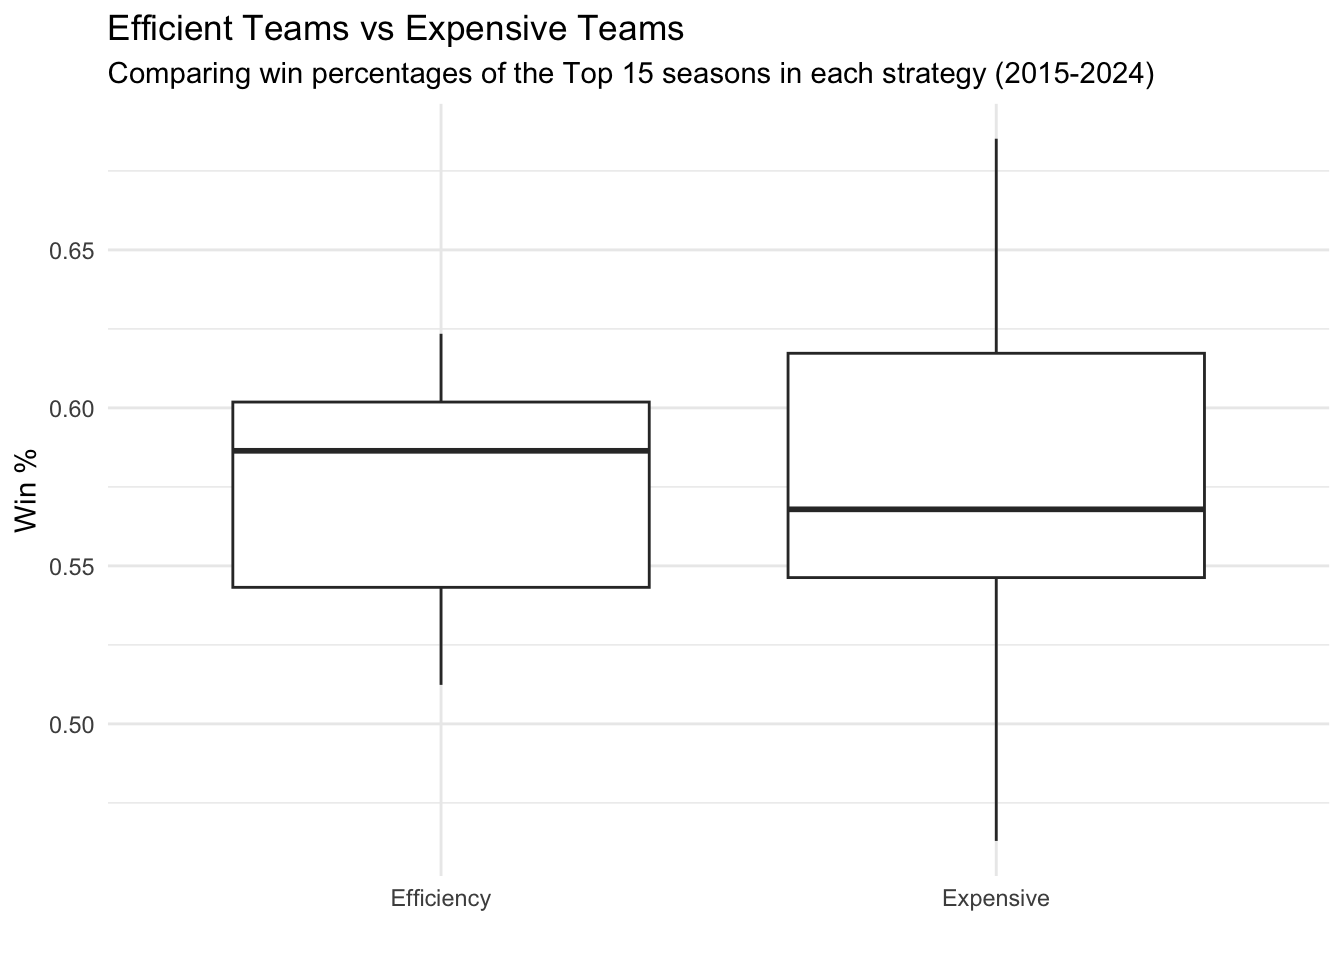
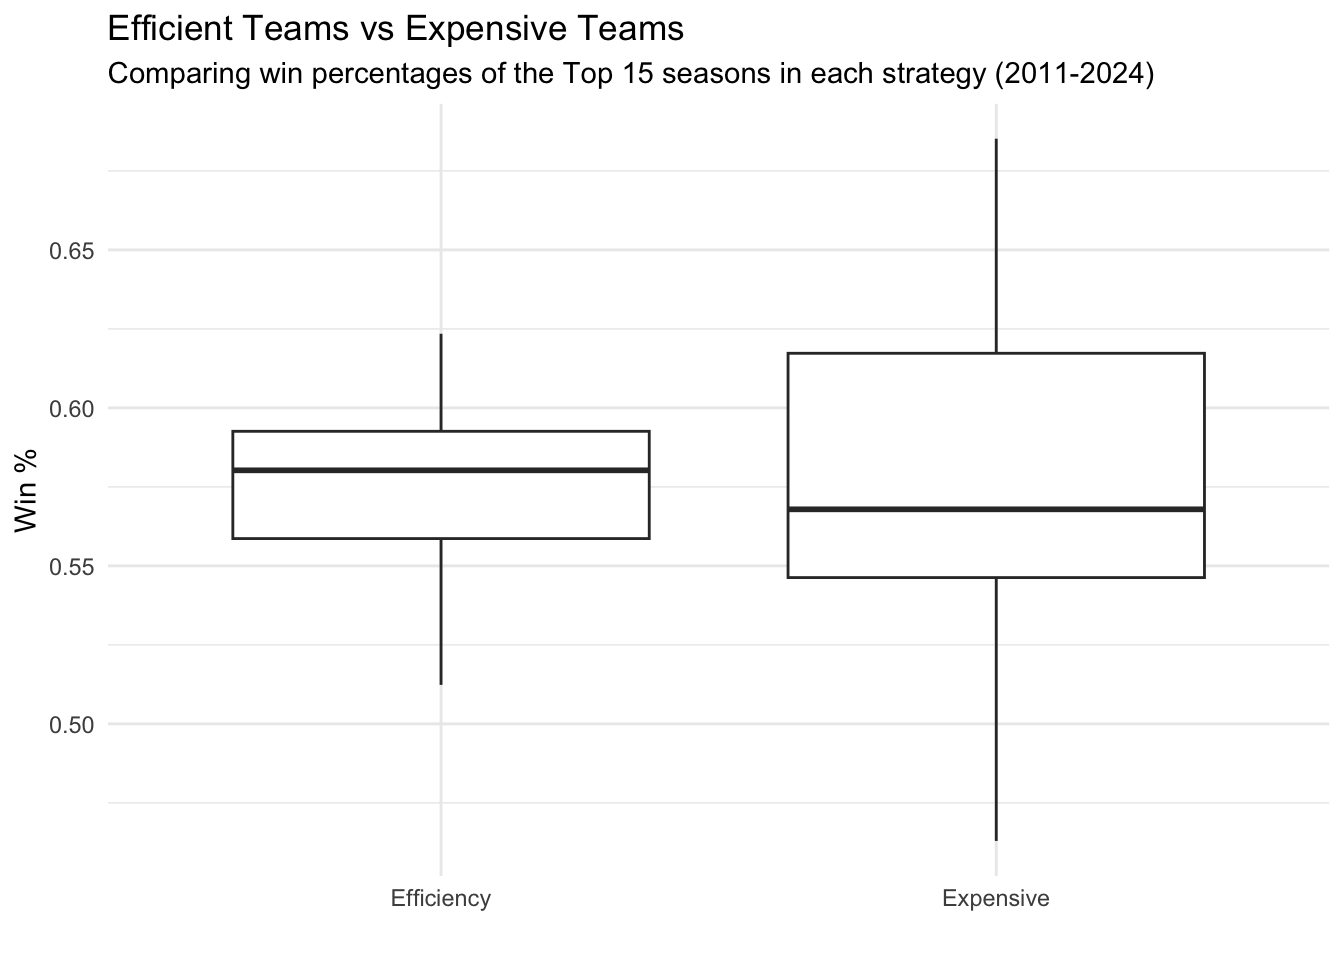
analysis

diff --git a/docs/posts/Post2/index.html b/docs/posts/Post2/index.html
@@ -9,7 +9,7 @@
 <meta name="author" content="Jacobi Lafferty">
 <meta name="dcterms.date" content="2026-02-16">
 
-<title>index – ds334_blog</title>
+<title>Do Smaller Market Teams Have a Chance in the MLB? – ds334_blog</title>
 <style>
 code{white-space: pre-wrap;}
 span.smallcaps{font-variant: small-caps;}
@@ -154,7 +154,7 @@ pre > code.sourceCode > span > a:first-child::before { text-decoration: underlin
 <header id="title-block-header" class="quarto-title-block default page-columns page-full">
   <div class="quarto-title-banner page-columns page-full">
     <div class="quarto-title column-body">
-      <h1 class="title">index</h1>
+      <h1 class="title">Do Smaller Market Teams Have a Chance in the MLB?</h1>
                                 <div class="quarto-categories">
                 <div class="quarto-category">analysis</div>
                 <div class="quarto-category">MLB</div>
@@ -194,6 +194,11 @@ pre > code.sourceCode > span > a:first-child::before { text-decoration: underlin
 
 
 
+<section id="introduction" class="level1">
+<h1>Introduction</h1>
+<p>For this post, I’m exploring MLB payrolls. Recently, there has been some controversy throughout the league due to big market teams, especially the dodgers, spending seemingly infinite amounts of money to sign all the big names in free agency. Currently in the MLB, there is no hard salary cap. There are taxes for going over a certain amounts, but for big market teams those taxes seem to not matter. I’m hoping to get to the bottom of how big of a problem this actually is. Do team’s who spend the most money really perform significantly better?</p>
+<p>To investigate this question, I’m working with a data set from Kaggle called <a href="https://www.kaggle.com/datasets/christophertreasure/mlb-team-payrolls-2011-2024">MLB Team Payrolls 2011-2024</a>. It contains both salary and performance data for every MLB team from 2011-2014. To approach this question, I wanted to not only see how salary effects winning, but also explore efficiency. What I mean by efficiency is spending the least amount of money to get the most possible wins. One of my favorite movies “MoneyBall” was a big inspiration for this idea. I want to see whether teams who have to work within a budget and prioritize efficiency have a chance, or if they are doomed from the start to the teams with the highest budgets.</p>
+<p>First, I need to create a couple variables to help us explore this question. We need Win Percentage and Efficiency. Efficiency in our case will be Payroll / Wins. In other words, how much a team pays for each win.</p>
 <div class="cell">
 <div class="code-copy-outer-scaffold"><div class="sourceCode cell-code" id="cb1"><pre class="sourceCode r code-with-copy"><code class="sourceCode r"><span id="cb1-1"><a href="#cb1-1" aria-hidden="true" tabindex="-1"></a><span class="fu">library</span>(tidyverse)</span></code></pre></div><button title="Copy to Clipboard" class="code-copy-button"><i class="bi"></i></button></div>
 <div class="cell-output cell-output-stderr">
@@ -242,7 +247,7 @@ dbl (4): Year, Average Age, Wins, Losses
 ℹ Use `spec()` to retrieve the full column specification for this data.
 ℹ Specify the column types or set `show_col_types = FALSE` to quiet this message.</code></pre>
 </div>
-<div class="code-copy-outer-scaffold"><div class="sourceCode cell-code" id="cb13"><pre class="sourceCode r code-with-copy"><code class="sourceCode r"><span id="cb13-1"><a href="#cb13-1" aria-hidden="true" tabindex="-1"></a>salaries <span class="ot">&lt;-</span> salaries <span class="sc">|&gt;</span> <span class="fu">filter</span>(Year <span class="sc">&gt;</span> <span class="dv">2014</span>) <span class="sc">|&gt;</span></span>
+<div class="code-copy-outer-scaffold"><div class="sourceCode cell-code" id="cb13"><pre class="sourceCode r code-with-copy"><code class="sourceCode r"><span id="cb13-1"><a href="#cb13-1" aria-hidden="true" tabindex="-1"></a>salaries <span class="ot">&lt;-</span> salaries <span class="sc">|&gt;</span></span>
 <span id="cb13-2"><a href="#cb13-2" aria-hidden="true" tabindex="-1"></a>  <span class="fu">mutate</span>(<span class="at">win_pct =</span> Wins <span class="sc">/</span> <span class="dv">162</span>,</span>
 <span id="cb13-3"><a href="#cb13-3" aria-hidden="true" tabindex="-1"></a>         <span class="at">Payroll =</span> <span class="fu">gsub</span>(<span class="st">"</span><span class="sc">\\</span><span class="st">$"</span>, <span class="st">""</span>, <span class="st">`</span><span class="at">Total Payroll Allocations</span><span class="st">`</span>),</span>
 <span id="cb13-4"><a href="#cb13-4" aria-hidden="true" tabindex="-1"></a>         <span class="at">Payroll =</span> <span class="fu">gsub</span>(<span class="st">","</span>, <span class="st">""</span>, Payroll),</span>
@@ -251,13 +256,14 @@ dbl (4): Year, Average Age, Wins, Losses
 <span id="cb13-7"><a href="#cb13-7" aria-hidden="true" tabindex="-1"></a>         <span class="at">efficiency =</span> Payroll <span class="sc">/</span> Wins</span>
 <span id="cb13-8"><a href="#cb13-8" aria-hidden="true" tabindex="-1"></a>         )</span></code></pre></div><button title="Copy to Clipboard" class="code-copy-button"><i class="bi"></i></button></div>
 </div>
+</section>
 <section id="highest-payrolls" class="level1">
 <h1>Highest Payrolls</h1>
 <div class="cell">
 <div class="code-copy-outer-scaffold"><div class="sourceCode cell-code" id="cb14"><pre class="sourceCode r code-with-copy"><code class="sourceCode r"><span id="cb14-1"><a href="#cb14-1" aria-hidden="true" tabindex="-1"></a>expensive_teams <span class="ot">&lt;-</span> salaries <span class="sc">|&gt;</span> <span class="fu">group_by</span>(Team) <span class="sc">|&gt;</span></span>
 <span id="cb14-2"><a href="#cb14-2" aria-hidden="true" tabindex="-1"></a>  <span class="fu">summarise</span>(<span class="at">avg_payroll =</span> <span class="fu">mean</span>(Payroll),</span>
 <span id="cb14-3"><a href="#cb14-3" aria-hidden="true" tabindex="-1"></a>            <span class="at">avg_win_pct =</span> <span class="fu">mean</span>(win_pct)) <span class="sc">|&gt;</span></span>
-<span id="cb14-4"><a href="#cb14-4" aria-hidden="true" tabindex="-1"></a>  <span class="fu">mutate</span>(<span class="at">Team =</span> <span class="fu">fct_reorder</span>(Team, avg_win_pct))</span>
+<span id="cb14-4"><a href="#cb14-4" aria-hidden="true" tabindex="-1"></a>  <span class="fu">mutate</span>(<span class="at">Team =</span> <span class="fu">fct_reorder</span>(Team, avg_payroll))</span>
 <span id="cb14-5"><a href="#cb14-5" aria-hidden="true" tabindex="-1"></a></span>
 <span id="cb14-6"><a href="#cb14-6" aria-hidden="true" tabindex="-1"></a><span class="fu">ggplot</span>(<span class="at">data =</span> expensive_teams, <span class="fu">aes</span>(<span class="at">x =</span> avg_payroll, <span class="at">y =</span> Team)) <span class="sc">+</span></span>
 <span id="cb14-7"><a href="#cb14-7" aria-hidden="true" tabindex="-1"></a>  <span class="fu">geom_segment</span>(<span class="fu">aes</span>(<span class="at">xend =</span> <span class="dv">0</span>, <span class="at">yend =</span> Team, <span class="at">color =</span> avg_win_pct)) <span class="sc">+</span></span>
@@ -266,7 +272,7 @@ dbl (4): Year, Average Age, Wins, Losses
 <span id="cb14-10"><a href="#cb14-10" aria-hidden="true" tabindex="-1"></a>  <span class="fu">scale_color_viridis_c</span>() <span class="sc">+</span></span>
 <span id="cb14-11"><a href="#cb14-11" aria-hidden="true" tabindex="-1"></a>  <span class="fu">labs</span>(</span>
 <span id="cb14-12"><a href="#cb14-12" aria-hidden="true" tabindex="-1"></a>    <span class="at">title =</span> <span class="st">"Average MLB Payrolls"</span>,</span>
-<span id="cb14-13"><a href="#cb14-13" aria-hidden="true" tabindex="-1"></a>    <span class="at">subtitle =</span> <span class="st">"(2015–2024)"</span>,</span>
+<span id="cb14-13"><a href="#cb14-13" aria-hidden="true" tabindex="-1"></a>    <span class="at">subtitle =</span> <span class="st">"(2011–2024)"</span>,</span>
 <span id="cb14-14"><a href="#cb14-14" aria-hidden="true" tabindex="-1"></a>    <span class="at">x =</span> <span class="st">"Average Annual Payroll (in Millions)"</span>,</span>
 <span id="cb14-15"><a href="#cb14-15" aria-hidden="true" tabindex="-1"></a>    <span class="at">y =</span> <span class="st">"MLB Franchise"</span>,</span>
 <span id="cb14-16"><a href="#cb14-16" aria-hidden="true" tabindex="-1"></a>    <span class="at">color =</span> <span class="st">"Win %"</span></span>
@@ -279,6 +285,7 @@ dbl (4): Year, Average Age, Wins, Losses
 </div>
 </div>
 </div>
+<p>The first thing to look at is the teams with the highest average payrolls. Not surprisingly, big market cities like LA, NY, and Boston are among the top, while smaller markets like Oakland and Tampa Bay are on the bottom. This plot is also colored by Win Percentage. At first glance, it seems like the teams around the top tend to have a higher winning percentage, but its not perfectly clear from this. Let’s plot that relationship next.</p>
 </section>
 <section id="payroll-vs-win-percentage" class="level1">
 <h1>Payroll vs Win Percentage</h1>
@@ -289,7 +296,7 @@ dbl (4): Year, Average Age, Wins, Losses
 <span id="cb15-4"><a href="#cb15-4" aria-hidden="true" tabindex="-1"></a>  <span class="fu">geom_smooth</span>() <span class="sc">+</span></span>
 <span id="cb15-5"><a href="#cb15-5" aria-hidden="true" tabindex="-1"></a>  <span class="fu">labs</span>(</span>
 <span id="cb15-6"><a href="#cb15-6" aria-hidden="true" tabindex="-1"></a>    <span class="at">title =</span> <span class="st">"Payroll vs Win Percentage"</span>,</span>
-<span id="cb15-7"><a href="#cb15-7" aria-hidden="true" tabindex="-1"></a>    <span class="at">subtitle =</span> <span class="st">"(2015-2024)"</span>,</span>
+<span id="cb15-7"><a href="#cb15-7" aria-hidden="true" tabindex="-1"></a>    <span class="at">subtitle =</span> <span class="st">"(2011-2024)"</span>,</span>
 <span id="cb15-8"><a href="#cb15-8" aria-hidden="true" tabindex="-1"></a>    <span class="at">x =</span> <span class="st">"Total Payroll (in Millions)"</span>,</span>
 <span id="cb15-9"><a href="#cb15-9" aria-hidden="true" tabindex="-1"></a>    <span class="at">y =</span> <span class="st">"Regular Season Win %"</span></span>
 <span id="cb15-10"><a href="#cb15-10" aria-hidden="true" tabindex="-1"></a>  )</span></code></pre></div><button title="Copy to Clipboard" class="code-copy-button"><i class="bi"></i></button></div>
@@ -304,6 +311,8 @@ dbl (4): Year, Average Age, Wins, Losses
 </div>
 </div>
 </div>
+<p>This plot is very interesting, it’s clear there is a positive relationship between Payroll and Win Percentage. The more money you spend the more you win. However, it seems as you start to spend more and more money, you start to reach a plateau. This suggests eventually, spending more money doesn’t necessarily guarantee more wins. There is also some interesting variance here. There are a lot of teams at around a $100 million payroll who seem to be winning as many games as teams with a $200 million payroll. Overall, while there is a positive relationship here, I would say this plot gives some hope that smaller market teams could have a chance to compete.</p>
+<p>Now, Lets explore efficiency a little bit. I’m going to manipulate the data a little for this and limit things to teams who had winning seasons. That way it takes out teams who spend so little money that they are considered efficient even if they had a bad year. This helps take factors like teams tanking out of the equation. Also, it narrows the focus on if teams who spend their money efficiently have a chance over the top spenders. Obviously if a team is below .500, they won’t.</p>
 </section>
 <section id="top-15-efficiency" class="level1">
 <h1>Top 15 Efficiency</h1>
@@ -320,7 +329,7 @@ dbl (4): Year, Average Age, Wins, Losses
 <span id="cb17-10"><a href="#cb17-10" aria-hidden="true" tabindex="-1"></a>  <span class="fu">geom_point</span>(<span class="fu">aes</span>(<span class="at">color =</span> Team), <span class="at">size =</span> <span class="dv">2</span>) <span class="sc">+</span></span>
 <span id="cb17-11"><a href="#cb17-11" aria-hidden="true" tabindex="-1"></a>  <span class="fu">labs</span>(</span>
 <span id="cb17-12"><a href="#cb17-12" aria-hidden="true" tabindex="-1"></a>    <span class="at">title =</span> <span class="st">"Most Efficient Teams"</span>,</span>
-<span id="cb17-13"><a href="#cb17-13" aria-hidden="true" tabindex="-1"></a>    <span class="at">subtitle =</span> <span class="st">"Top 15 most efficient seasons by cost per win (2015–2024)"</span>,</span>
+<span id="cb17-13"><a href="#cb17-13" aria-hidden="true" tabindex="-1"></a>    <span class="at">subtitle =</span> <span class="st">"Top 15 most efficient seasons by cost per win (2011–2024)"</span>,</span>
 <span id="cb17-14"><a href="#cb17-14" aria-hidden="true" tabindex="-1"></a>    <span class="at">x =</span> <span class="st">"Regular Season Win %"</span>,</span>
 <span id="cb17-15"><a href="#cb17-15" aria-hidden="true" tabindex="-1"></a>    <span class="at">y =</span> <span class="st">"Team"</span></span>
 <span id="cb17-16"><a href="#cb17-16" aria-hidden="true" tabindex="-1"></a>  ) <span class="sc">+</span></span>
@@ -345,6 +354,8 @@ dbl (4): Year, Average Age, Wins, Losses
 </div>
 </div>
 </div>
+<p>This plot shows us the top 15 efficient seasons from our range of data (2011-2024). We can see here that a lot of small market teams, even teams that were at the very bottom of total Payroll like Tampa Bay and Oakland, have some of the most efficient seasons. This tells us a lot because we aren’t seeing high market teams here. If this top 15 were mostly comprised of the Dodgers, Yankees, etc, it would tell us that spending all that money is worth it, because your winning enough to be the most efficient. It’s promising that not only are these not the top spending teams, but they are mostly among the lowest spending teams. The other thing we can observe from this plot is the win pct. Most fall right under .600.</p>
+<p>Let’s take the same approach now for salary instead of efficiency so we can evetually compare them.</p>
 </section>
 <section id="top-15-salary" class="level1">
 <h1>Top 15 Salary</h1>
@@ -370,7 +381,7 @@ dbl (4): Year, Average Age, Wins, Losses
 <span id="cb18-19"><a href="#cb18-19" aria-hidden="true" tabindex="-1"></a></span>
 <span id="cb18-20"><a href="#cb18-20" aria-hidden="true" tabindex="-1"></a>  <span class="fu">labs</span>(</span>
 <span id="cb18-21"><a href="#cb18-21" aria-hidden="true" tabindex="-1"></a>    <span class="at">title =</span> <span class="st">"Most Expensive Teams"</span>,</span>
-<span id="cb18-22"><a href="#cb18-22" aria-hidden="true" tabindex="-1"></a>    <span class="at">subtitle =</span> <span class="st">"Top 15 most expensive seasons (2015–2024)"</span>,</span>
+<span id="cb18-22"><a href="#cb18-22" aria-hidden="true" tabindex="-1"></a>    <span class="at">subtitle =</span> <span class="st">"Top 15 most expensive seasons (2011–2024)"</span>,</span>
 <span id="cb18-23"><a href="#cb18-23" aria-hidden="true" tabindex="-1"></a>    <span class="at">x =</span> <span class="st">"Win %"</span>,</span>
 <span id="cb18-24"><a href="#cb18-24" aria-hidden="true" tabindex="-1"></a>    <span class="at">y =</span> <span class="st">"Teams"</span></span>
 <span id="cb18-25"><a href="#cb18-25" aria-hidden="true" tabindex="-1"></a>  ) <span class="sc">+</span></span>
@@ -384,6 +395,7 @@ dbl (4): Year, Average Age, Wins, Losses
 </div>
 </div>
 </div>
+<p>Once again this plot takes the top 15 teams, except this time for their total payroll instead of efficiency. Unlike the very first plot we looked at, this looks at individual seasons as opposed to averages. We see a lot of LA and NY, as expected. Similar to the efficiency plot, it appears that most of these teams fall right under a .600 win percentage. It’s very promising that the win percentages appear to be close together.</p>
 </section>
 <section id="comparing-most-efficient-and-most-expensive" class="level1">
 <h1>Comparing Most Efficient and Most Expensive</h1>
@@ -397,7 +409,7 @@ dbl (4): Year, Average Age, Wins, Losses
 <span id="cb19-7"><a href="#cb19-7" aria-hidden="true" tabindex="-1"></a>  <span class="fu">geom_boxplot</span>() <span class="sc">+</span></span>
 <span id="cb19-8"><a href="#cb19-8" aria-hidden="true" tabindex="-1"></a>  <span class="fu">labs</span>(</span>
 <span id="cb19-9"><a href="#cb19-9" aria-hidden="true" tabindex="-1"></a>    <span class="at">title =</span> <span class="st">"Efficient Teams vs Expensive Teams"</span>,</span>
-<span id="cb19-10"><a href="#cb19-10" aria-hidden="true" tabindex="-1"></a>    <span class="at">subtitle =</span> <span class="st">"Comparing win percentages of the Top 15 seasons in each strategy (2015-2024)"</span>,</span>
+<span id="cb19-10"><a href="#cb19-10" aria-hidden="true" tabindex="-1"></a>    <span class="at">subtitle =</span> <span class="st">"Comparing win percentages of the Top 15 seasons in each strategy (2011-2024)"</span>,</span>
 <span id="cb19-11"><a href="#cb19-11" aria-hidden="true" tabindex="-1"></a>    <span class="at">x =</span> <span class="st">""</span>,</span>
 <span id="cb19-12"><a href="#cb19-12" aria-hidden="true" tabindex="-1"></a>    <span class="at">y =</span> <span class="st">"Win %"</span></span>
 <span id="cb19-13"><a href="#cb19-13" aria-hidden="true" tabindex="-1"></a>  ) <span class="sc">+</span></span>
@@ -413,6 +425,17 @@ dbl (4): Year, Average Age, Wins, Losses
 </div>
 </div>
 </div>
+<p>Now, lets compare these top 15 teams in efficiency vs total payroll. From the plot, the teams who excel in efficiency actually have the higher median win percentage. This tells us they not only have a chance to compete, but spending your money efficiently might even work out better. The teams who excel in efficiency also have a much tighter spread. They seem to be much more consistent. The big spenders might have the best of the best teams, but they also have a bigger chance of having a more mediocre season.</p>
+</section>
+<section id="conclusion" class="level1">
+<h1>Conclusion</h1>
+<p>Overall, these results are pretty surprising to me. I expected that no matter how efficiently lower market teams spent their money, the teams with the most money would win the most. There are a couple logical reasons for why that might not be the case. “Superteams” don’t always work out, sometimes the chemistry and overall structure of a team is much more important than simply having the biggest names. Lower market teams may not have the capabilities to obtain the same star-power, but they can build their team based on these other metrics. These results show us there’s always a chance to compete, no matter how much money you have to spend.</p>
+<p>This being said, there could be some flaws with our approach to analyzing this data. For one, we are only comparing the top 15 teams for efficiency and Payroll. While this does tell us there is always a chance, it doesn’t tell us the full story of how likely this really is. These top 15 efficient teams could very well be major outliers, and more often then not, the team with more money is wins. If I had more time, I would love to explore this further, and compare outside the top 15 teams. I would also love to expand this and look at data from before 2011. I’m interested to see if these results have changed over time and if we are trending more towards a balanced league, or a league dominated by the biggest spenders. Another thing I would love to look at is Postseason success. This data set showed us these teams can compete in the regular season, but I’m interested to see if this translates to World Series appearances and wins.</p>
+</section>
+<section id="connection-to-data-visualization" class="level1">
+<h1>Connection to data Visualization</h1>
+<p>So how does all of this connect to ideas of data visualization? Oftentimes we were comparing a quantitative variable (Payroll or win %) to a categorical variable (teams or efficiency vs Expensive). When our categorical variable was teams, I chose to visualize the data with lollipop plots. This was due to us having so many categories with all the teams. The one time we were comparing 2 things(efficient teams vs expensive teams), I went with side-by-side box plots because it would be beneficial to see more than what the lollipop plot or a bar plot could show us. With the side-by-side box plots we could look at medians, spread, potential outliers, etc. The one exception to all of this is when we were comparing 2 quantitative variables (win % vs Payroll). In this case, I went with a scatter plot.</p>
+<p>I also took some other ideas from data visualization concepts. For example, in the plot of average payrolls for each franchise I added a sequential color scale. This was because our variable we were coloring by (win %) was ordered sequentially. I also colored the top 15 plots for both efficiency and Payroll by team colors. Although not necessarily related to specific data visualization concepts, I thought it was a fun touch and made the plot more visually appealing(especially to baseball fans).</p>
 
 
 </section>

diff --git a/docs/index.html b/docs/index.html
@@ -227,16 +227,7 @@ window.Quarto = {
 
 </div>
 <div class="delink listing-description"><a href="./posts/Post2/index.html" class="no-external">
-
-<div class="code-copy-outer-scaffold"><div class="sourceCode cell-code" id="cb1"><pre class="sourceCode r code-with-copy"><code class="sourceCode r"><span id="cb1-1"><span class="fu">library</span>(tidyverse)</span></code></pre></div></div>
-<div class="cell-output cell-output-stderr">
-<pre><code>Warning: package 'ggplot2' was built under R version 4.4.3</code></pre>
-</div>
-<div class="cell-output cell-output-stderr">
-<pre><code>Warning: package 'tibble' was built under R version 4.4.3</code></pre>
-</div>
-<div class="cell-output cell-output-stderr">
-<pre><code>Warning: package 'tidyr' was…</code></pre></div><div class="cell-output cell-output-stderr"><pre><code></code></pre></div><div class="cell-output cell-output-stderr"><pre><code></code></pre></div><div class="cell-output cell-output-stderr"><pre><code></code></pre></div><div class="cell-output cell-output-stderr"><pre><code></code></pre></div><div class="code-copy-outer-scaffold"><div class="sourceCode cell-code" id="cb9"><pre class="sourceCode r code-with-copy"><code class="sourceCode r"><span id="cb9-1"><span class="fu"></span></span><span id="cb9-2"><span class="fu"></span></span></code></pre></div></div><div class="cell-output cell-output-stderr"><pre><code></code></pre></div><div class="code-copy-outer-scaffold"><div class="sourceCode cell-code" id="cb11"><pre class="sourceCode r code-with-copy"><code class="sourceCode r"><span id="cb11-1"><span class="ot"></span><span class="fu"></span><span class="fu"></span><span class="st"></span><span class="st"></span><span class="st"></span></span></code></pre></div></div><div class="cell-output cell-output-stderr"><pre><code></code></pre></div><div class="code-copy-outer-scaffold"><div class="sourceCode cell-code" id="cb13"><pre class="sourceCode r code-with-copy"><code class="sourceCode r"><span id="cb13-1"><span class="ot"></span><span class="sc"></span><span class="fu"></span><span class="sc"></span><span class="dv"></span><span class="sc"></span></span><span id="cb13-2"><span class="fu"></span><span class="at"></span><span class="sc"></span><span class="dv"></span></span><span id="cb13-3"><span class="at"></span><span class="fu"></span><span class="st"></span><span class="sc"></span><span class="st"></span><span class="st"></span><span class="st"></span><span class="at"></span><span class="st"></span></span><span id="cb13-4"><span class="at"></span><span class="fu"></span><span class="st"></span><span class="st"></span></span><span id="cb13-5"><span class="at"></span><span class="fu"></span></span><span id="cb13-6"><span class="at"></span><span class="sc"></span><span class="dv"></span></span><span id="cb13-7"><span class="at"></span><span class="sc"></span></span><span id="cb13-8"></span></code></pre></div></div>
+For this post, I’m exploring MLB payrolls. Recently, there has been some controversy throughout the league due to big market teams, especially the dodgers, spending…
 </a></div>
 </div>
 <div class="metadata">
